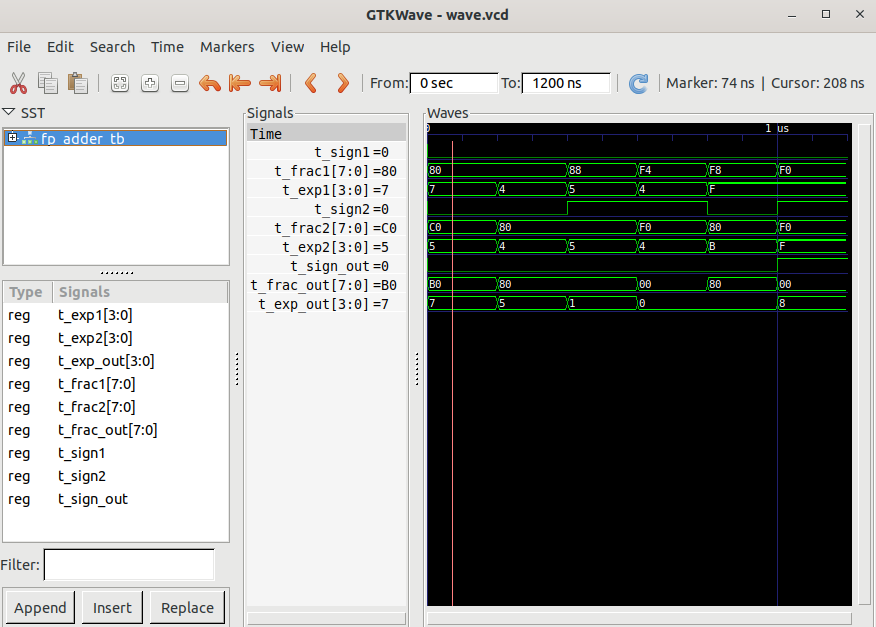
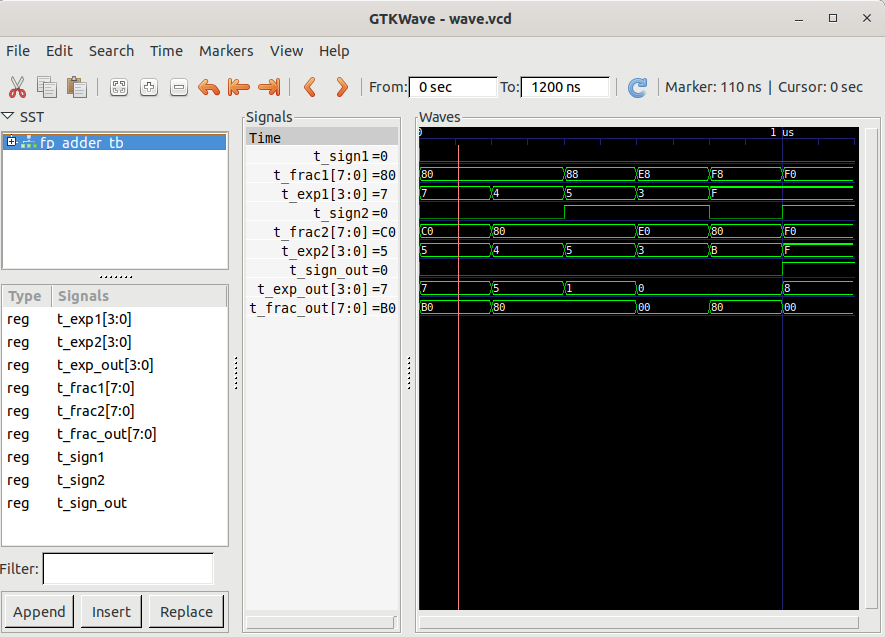
att relatorio

diff --git a/Relatorio.md b/Relatorio.md
@@ -16,8 +16,6 @@ Este projeto adapta o somador de ponto flutuante simplificado (13 bits) do livro
 
 ## 2. Descrição gráfica do funcionamento do sistema
 
-Neste Repositório, utilizamos os seguintes arquivos para a simulação ( fp_adder_test.vhd ; fp_adder.vhd ; hex_to_sseg.vhd ) teste ( fp_adder_test_testbench.vht) e configuração (DE10_LITE.qsf).
-
 A parte lógica do somador (`fp_adder.vhd`) recebe dois números em formato de ponto flutuante $(-1)^s \times 0.f \times 2^e$, onde $s$ corresponde ao sinal, $f$ corresponde à parte fracionária (ou significando) e $e$ corresponde ao expoente.
 O funcionamento da soma é em 4 estágios:
 
@@ -31,7 +29,20 @@ O funcionamento da soma é em 4 estágios:
 
 O resultado após a normalização é encaminhado para as saídas e o sinal resultante é o mesmo do maior número (big).
 
-O diagrama ilustra esse fluxo e as respectivas variáveis VHDL da entidade:
+As variáveis usadas ao longo do código do somador (`fp_adder.vhd`) são:
+
+- `sign1`|`2`, `frac1`|`2`, `exp1`|`2` são as entradas (sinal, significando e expoente) do primeiro e segundo número, respectivamente;
+- `signb`|`s`, `fracb`|`s`, `expb`|`s` são os valores (sinal, significando e expoente) dos números big e small, respectivamente;
+- `exp_diff` é a diferença de expoentes (`expb` - `exps`)
+- `fraca` é o significando do menor número alinhado
+- `sum` é o resultado da soma (ou subtração, a depender dos sinais) de `fracb` e `fraca`
+- `lead0` é a quantidade de zeros à esquerda em `sum`
+- `sum_norm` é `sum` normalizado de acordo com `lead0`
+- `fracn` é a parte fracionária após normalização com condições especiais
+- `expn` é o expoente após normalização com condições especiais
+- `sign_out`, `frac_out`, `exp_out` são os valores (sinal, significando e expoente) do resultado final
+
+O diagrama a seguir ilustra o fluxo e as respectivas variáveis VHDL da entidade:
 
 ```mermaid
 flowchart TD
@@ -102,7 +113,9 @@ flowchart TD
 
 ## 4. Evidências de Validação
 
-### Simulação 
+### Simulação
+
+Neste Repositório, utilizamos os seguintes arquivos para a simulação (`fp_adder_test.vhd`; `fp_adder.vhd`; `hex_to_sseg.vhd`) teste (`fp_adder_test_testbench.vht`) e configuração (`DE10_LITE.qsf`).
 
 Para investigar o 4º estágio (normalização) na simulação, consideramos as quatro situações possíveis:
 
@@ -155,10 +168,10 @@ Esse caso dá um número pequeno demais, ou seja, um número em que a quantidade
 
 ```txt
 base 10 |         base 2           | base 16 (gtkwave)
- +15.25 |   +0.1111 0100 * 2^0100  | (s,f,e) = (0, F4, 4)
- -15.00 |   -0.1111 0000 * 2^0100  | (s,f,e) = (1, F0, 4)
+  +7.25 |   +0.1110 1000 * 2^0011  | (s,f,e) = (0, E8, 3)
+  -7.00 |   -0.1110 0000 * 2^0011  | (s,f,e) = (1, E0, 3)
   ————— |   —————————————————————  | 
-= +0.25 | = +0.0000 0100 * 2^0100  | 
+= +0.25 | = +0.0000 1000 * 2^0011  | 
 === Normalização zera o resultado (lead0 > expoente) ====
 =  0    | = +0.0000 0000 * 2^0000  | (s,f,e) = (0, 00, 0)
 ```
@@ -207,19 +220,6 @@ O código `fp_adder_test_testbench.vhd` foi utilizado para originar as imagens a
 ![Imagem2](img/fp_adder_testbench-02.png)
 
 *Teste mostrando todas as variáveis do código, com as formas de onda obtidas a partir do uut*
-
-Onde,
-
-- `sign1`|`2`, `frac1`|`2`, `exp1`|`2` são as entradas (sinal, significando e expoente) do primeiro e segundo número, respectivamente;
-- `signb`|`s`, `fracb`|`s`, `expb`|`s` são os valores (sinal, significando e expoente) dos números big e small, respectivamente;
-- `exp_diff` é a diferença de expoentes (`expb` - `exps`)
-- `fraca` é o significando do menor número alinhado
-- `sum` é o resultado da soma (ou subtração, a depender dos sinais) de `fracb` e `fraca`
-- `lead0` é a quantidade de zeros à esquerda em `sum`
-- `sum_norm` é `sum` normalizado de acordo com `lead0`
-- `fracn` é a parte fracionária após normalização com condições especiais
-- `expn` é o expoente após normalização com condições especiais
-- `sign_out`, `frac_out`, `exp_out` são os valores (sinal, significando e expoente) do resultado final
 
 ### Código VHDL Final
 
@@ -308,7 +308,7 @@ end arch;
 
 ### Funcionamento na Placa
 
-Abaixo, imagens do funcionamento na Placa para 4 casos.
+Abaixo, imagens do funcionamento na Placa para os casos descritos.
 
 *Etapa 4 (considerando qeu a Etapa 4 considera toda a documentação em si)*
 
